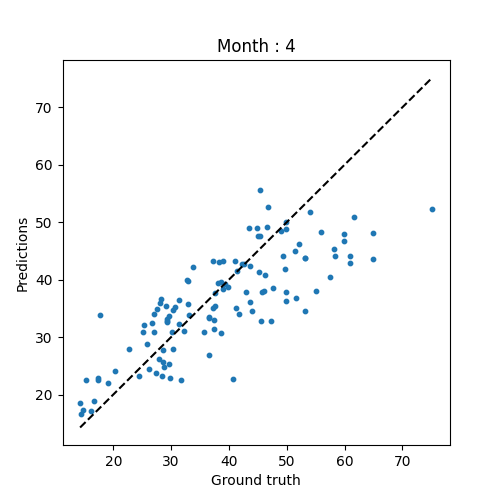
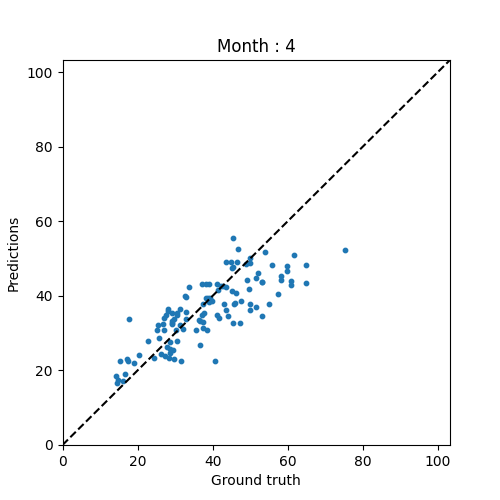
Set the range of the axis for the graphs per month

diff --git a/tools/tools_metrics.py b/tools/tools_metrics.py
@@ -132,13 +132,16 @@ def scores_per_month(test_frame, y_predicted, y_test):
         MSE = round(compute_mse(y_test[L], y_predicted[L]), 3)
         print(f"Month {month} score : R2={R2}  MSE={MSE}")
         
+    maximum = max(np.max(y_predicted), np.max(y_test))
     for month in range(1, 7) :
         L = test_frame['date'].dt.month==month
         plt.figure(figsize=(5, 5))
         plt.scatter(y_test[L], y_predicted[L], s=10)
         plt.title(f"Month : {month}")
-        X = np.linspace(min(y_test[L]), max(y_test[L]), 100)
+        X = np.linspace(0, maximum, 100)
         plt.plot(X, X, c='black', linestyle="--")
         plt.xlabel("Ground truth")
         plt.ylabel("Predictions")
+        plt.xlim(0, maximum)
+        plt.ylim(0, maximum)
         plt.savefig(f"./figures/Predictions_month_{month}.png")
